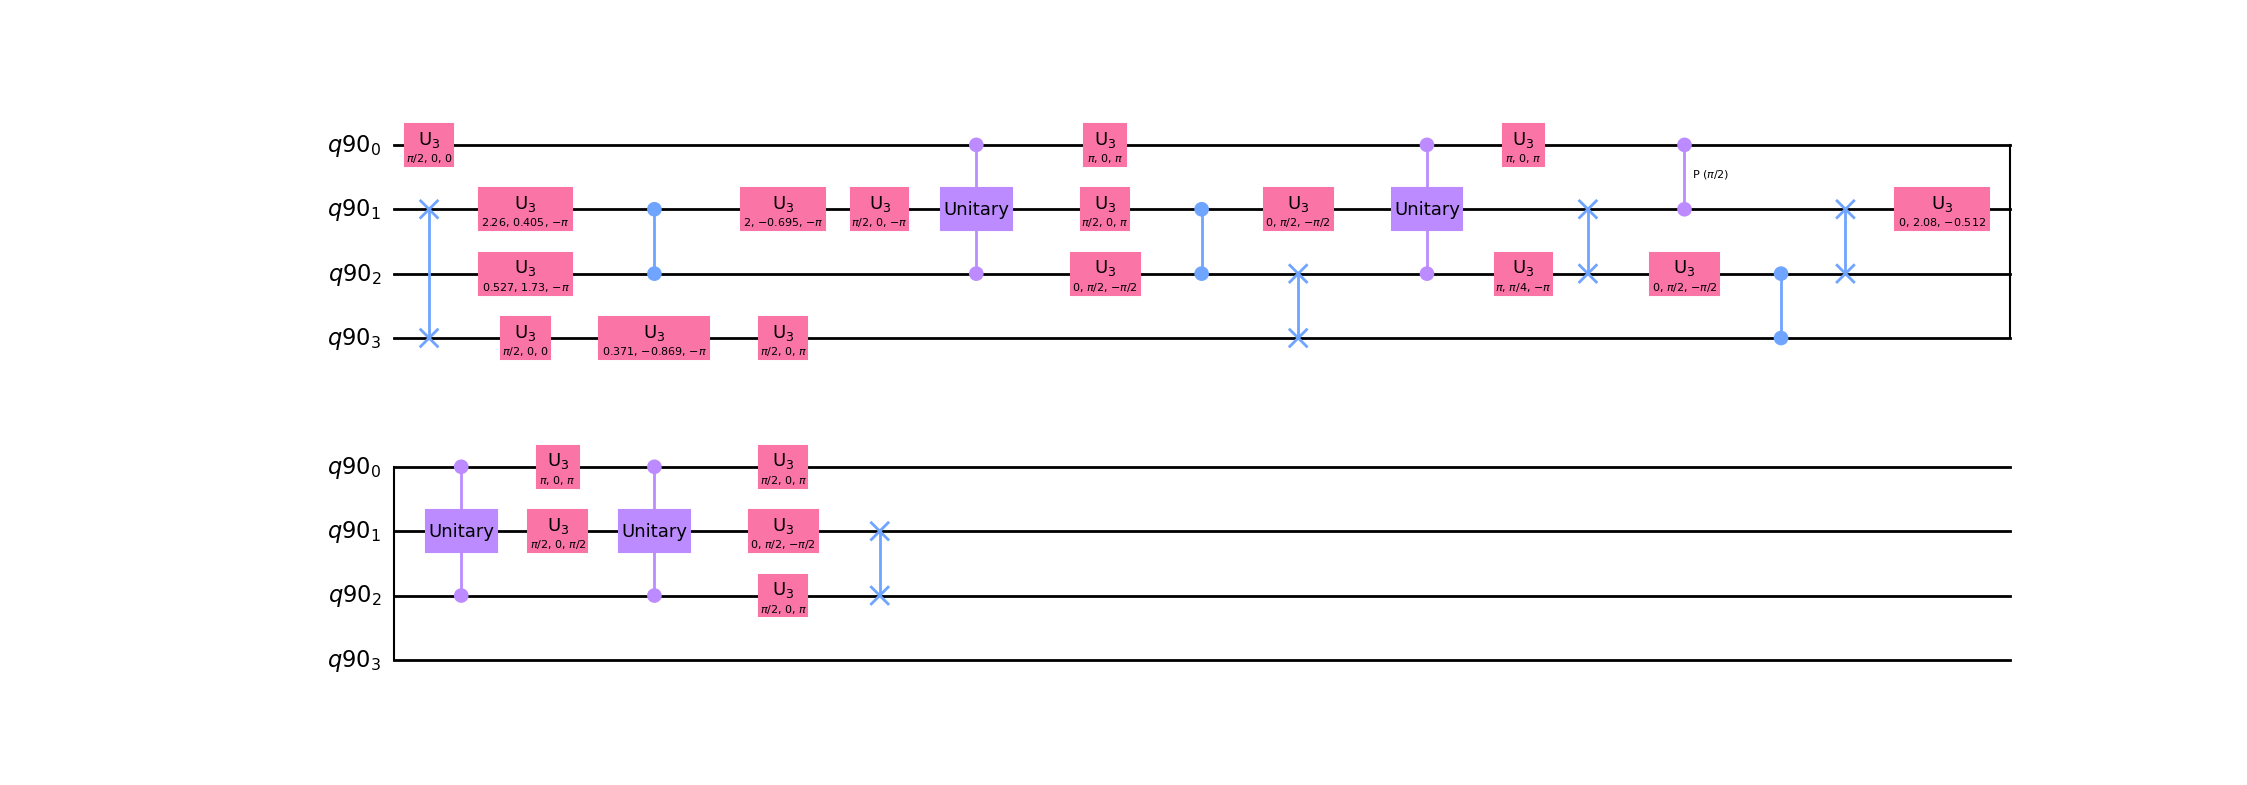
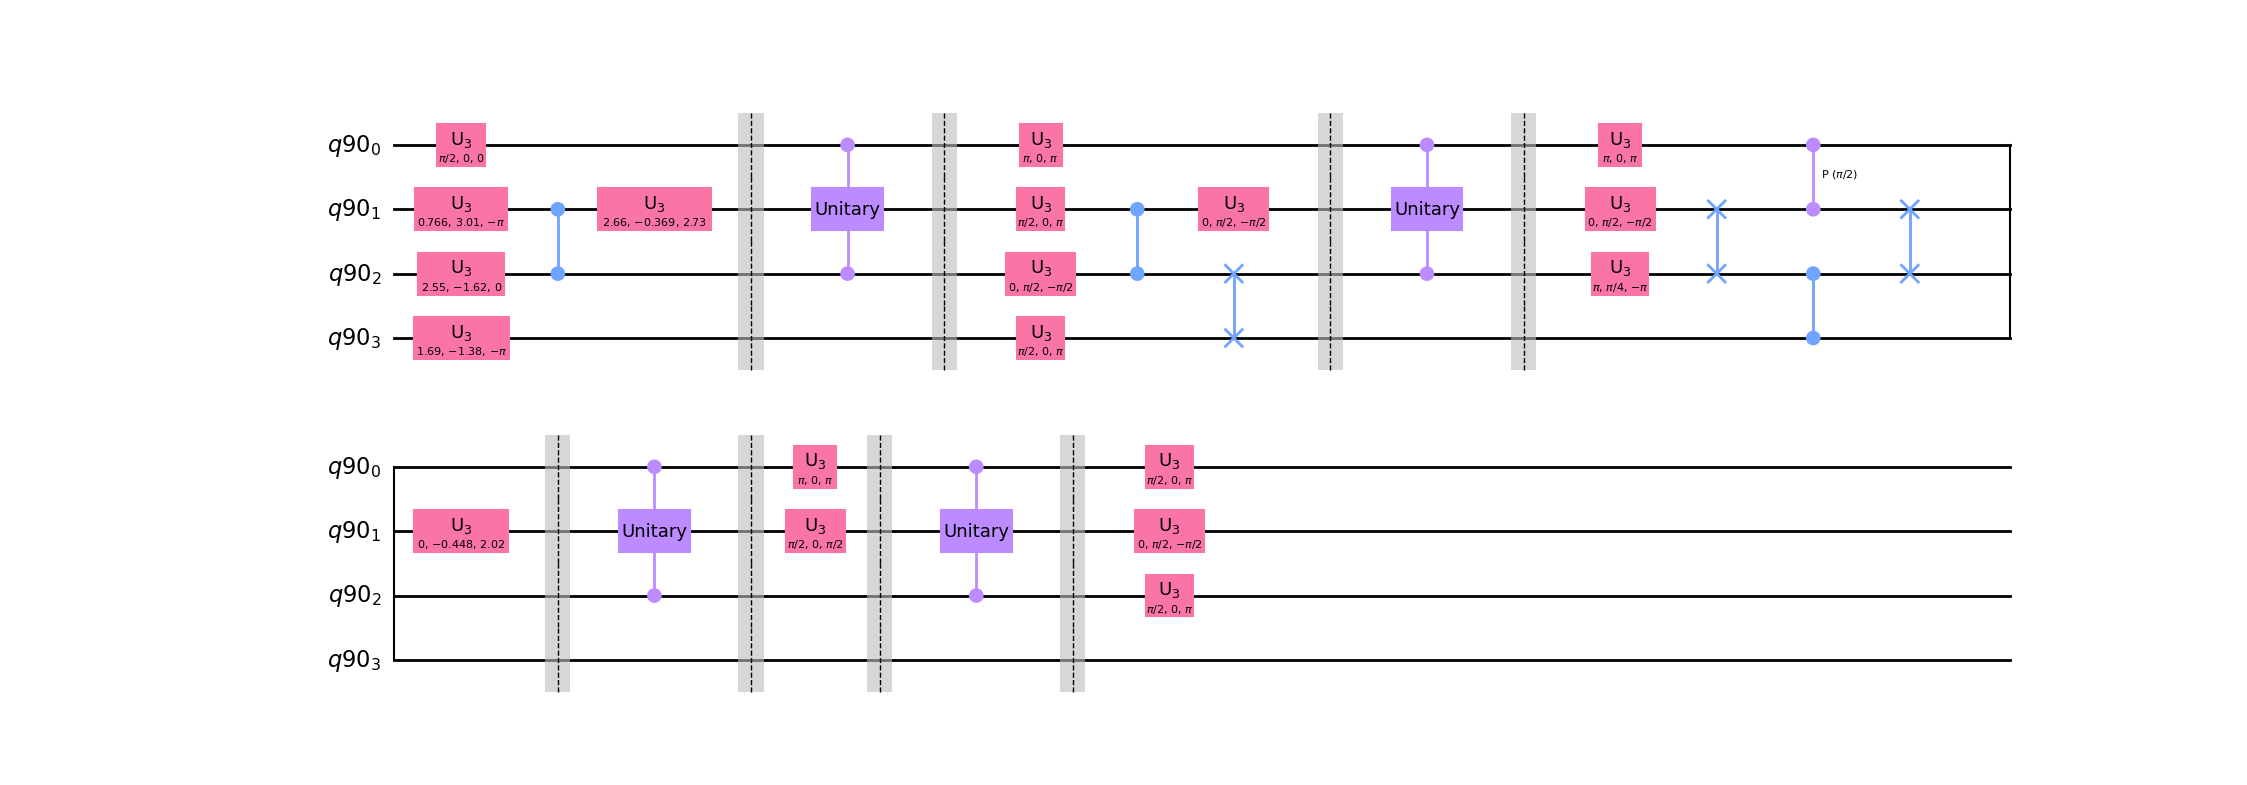
Add further circuit simplification with some hardcoded parts

diff --git a/src/circuits.py b/src/circuits.py
@@ -327,7 +327,6 @@ def transpile_across_barrier(circ: QuantumCircuit,
     circ_data_single = []
 
     # Split when encoutering a barrier
-    len_circ_data = len(circ_data)
     for i, inst_tup in enumerate(circ_data):
         if inst_tup[0].name == 'barrier':
             circ_data_split.append(circ_data_single)
@@ -341,23 +340,33 @@ def transpile_across_barrier(circ: QuantumCircuit,
     # Transpile except for three-qubit gate
     circ_new = QuantumCircuit(qreg)
     count = 0
-    for circ_data_single in circ_data_split:
+    for i, circ_data_single in enumerate(circ_data_split):
         if len(circ_data_single) > 1:
             circ_single = create_circuit_from_data(circ_data_single, qreg=qreg)
             circ_single = transpile(circ_single, basis_gates=basis_gates)
-            print(circ_single)
+            if i == 4: # Swap positions of CPhase and U3
+                print(circ_single)
+                for j, inst_tup in enumerate(circ_single.data):
+                    print(j, inst_tup[0].name)
+                tmp = circ_single.data[3]
+                circ_single.data[3] = circ_single.data[4]
+                circ_single.data[4] = tmp
             if push:
                 circ_single = push_swap_gates(circ_single, direcs=params.swap_direcs[count].copy(), qreg=qreg)
                 circ_single = combine_swap_gates(circ_single)
+                circ_single = push_swap_gates(circ_single, direcs=params.swap_direcs1[count].copy(), qreg=qreg, push_through_2q=True)
+                circ_single = combine_swap_gates(circ_single)
+                circ_single = transpile(circ_single, basis_gates=basis_gates)
+            if i == 0 or i == 8:
+                circ_single = remove_swap_gates(circ_single)
             circ_new += circ_single
             count += 1
         else:
-            # circ_new.barrier()
+            circ_new.barrier()
             circ_new.append(*circ_data_single[0])
-            # circ_new.barrier()
-    print(circ_new)
-    circ_new = push_swap_gates(circ_new, direcs=['left', 'right', None, None, None, None], qreg=qreg, push_through_2q=True)
-    circ_new = combine_swap_gates(circ_new)
+            circ_new.barrier()
+    # circ_new = push_swap_gates(circ_new, direcs=['left', 'right', None, None, None, None], qreg=qreg, push_through_2q=True)
+    # circ_new = combine_swap_gates(circ_new)
     return circ_new
 
 
@@ -378,6 +387,8 @@ def push_swap_gates(circ: QuantumCircuit,
     print('=' * 80)
 
     assert set(direcs).issubset({'left', 'right', None})
+    if direcs == []:
+        return circ
     if qreg is None:
         qreg = circ.qregs[0]
     n_qubits = len(qreg)
@@ -451,7 +462,6 @@ def push_swap_gates(circ: QuantumCircuit,
         for j, inst_tup_ in enumeration:
             print('j =', j)
             inst_, qargs_, cargs_ = inst_tup_
-            print(inst_.name)
             if inst_.name == 'barrier':
                 # Barrier. Insert here and exit the loop
                 print("Barrier")
@@ -505,7 +515,7 @@ def push_swap_gates(circ: QuantumCircuit,
                     print('inserting at position', j + int(direc == 'left'))
                     circ_data.insert(j + int(direc == 'left'), inst_tup)
                     break
-            print(create_circuit_from_data(circ_data, qreg=qreg))
+            # print(create_circuit_from_data(circ_data, qreg=qreg))
         print('deleting position', i + int(direc == 'left'))
         del circ_data[i + int(direc == 'left')]
 
@@ -555,4 +565,12 @@ def combine_swap_gates(circ: QuantumCircuit) -> QuantumCircuit:
     return circ_new
 
 
-        
+def remove_swap_gates(circ: QuantumCircuit) -> QuantumCircuit:
+    """Removes SWAP gates in a circuit."""
+    qreg = circ.qregs[0]
+    circ_data = []
+    for inst_tup in circ.data:
+        if inst_tup[0].name != 'swap':
+            circ_data.append(inst_tup)
+    circ_new = create_circuit_from_data(circ_data, qreg=qreg)
+    return circ_new

diff --git a/tests/test_circuits.py b/tests/test_circuits.py
@@ -96,7 +96,7 @@ class TestPushSwapGates(unittest.TestCase):
         U1 = get_unitary(circ1)
 
         np.testing.assert_almost_equal(U, U1)
-    '''
+    
 
     def test_push_swap_gates_left(self):
         circ = QuantumCircuit(3)
@@ -130,6 +130,21 @@ class TestPushSwapGates(unittest.TestCase):
 
         U_ref = get_unitary(circ)
         np.testing.assert_almost_equal(U, U_ref)
+    '''
+
+    def test_staggered_2q(self):
+        circ = QuantumCircuit(4)
+        circ.swap(1, 2)
+        circ.cp(np.pi / 2, 0, 1)
+        circ.cz(2, 3)
+        circ.swap(1, 2)
+        U = get_unitary(circ)
+
+        circ1 = QuantumCircuit(4)
+        circ1.cp(np.pi / 2, 0, 1)
+        circ1.cz(1, 2)
+        U1 = get_unitary(circ1)
+        np.testing.assert_almost_equal(U, U1)
 
 class TestCombineSwapGates(unittest.TestCase):
     '''

diff --git a/src/params.py b/src/params.py
@@ -1,3 +1,4 @@
 basis_gates = ['u3', 'cz', 'swap', 'cp']
 swap_direcs = [['left', 'left'], ['right', 'right', 'left'], ['right', 'left'], ['right', 'right'], ['right']]
+swap_direcs1 = [['left'], ['right', None], [None, None], [], [None]]
 #swap_direcs = [x for y in swap_direcs for x in y]
